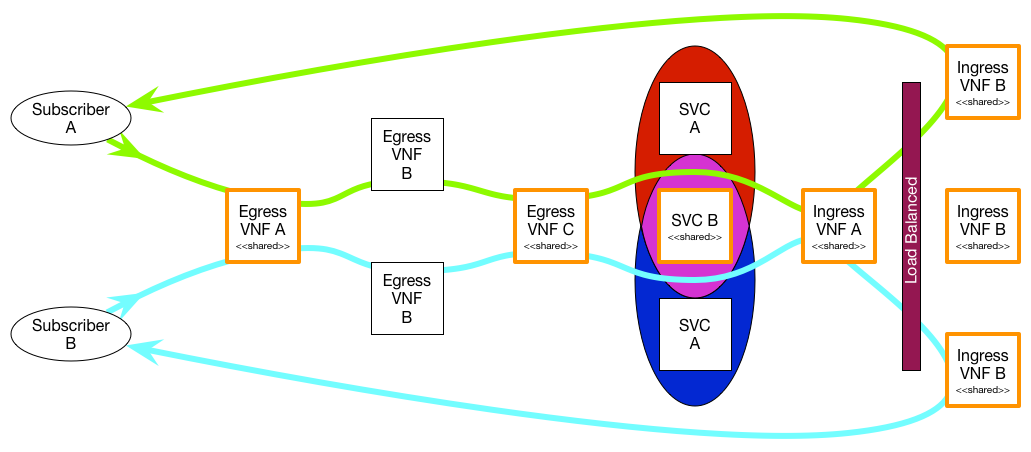
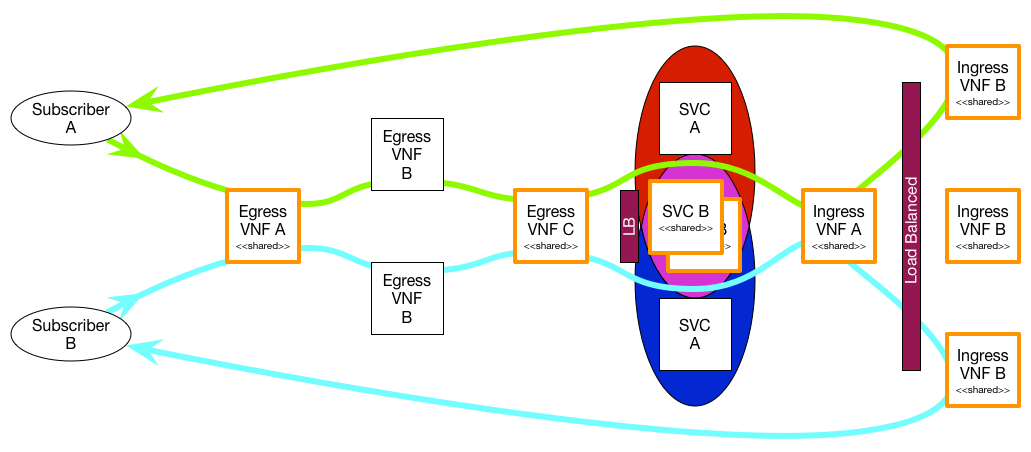
updated to support load balancing of TCP service

diff --git a/README.md b/README.md
@@ -10,7 +10,8 @@ by the `SVC` entries.
 
 The example demonstrates the a user case with two distinct subscribers as well
 as some vNFs that are shared and some vNFs that are unique per subscriber. Also
-demonstrated is a shared vNF that is load balanced between 3 instances.
+demonstrated is a shared L2 vNF that is load balanced between 3 instances and a
+L3 vNF service (TCP) that is load balanced between two instances.
 
 ![](./logical.png)
 
@@ -19,8 +20,8 @@ below:
 
 ![](./physical.png)
 
-_**TODO:** While the user case depicts a connection to the Internet this aspect of
-the use case is not yet supported._
+_**TODO:** While the user case depicts a connection to the Internet this aspect
+of the use case is not yet supported._
 
 The formula used for this demonstration is that each VNF is assigned two (2)
 data plane interfaces, `in0` and `out0`. It is the requirement of the the VNF
